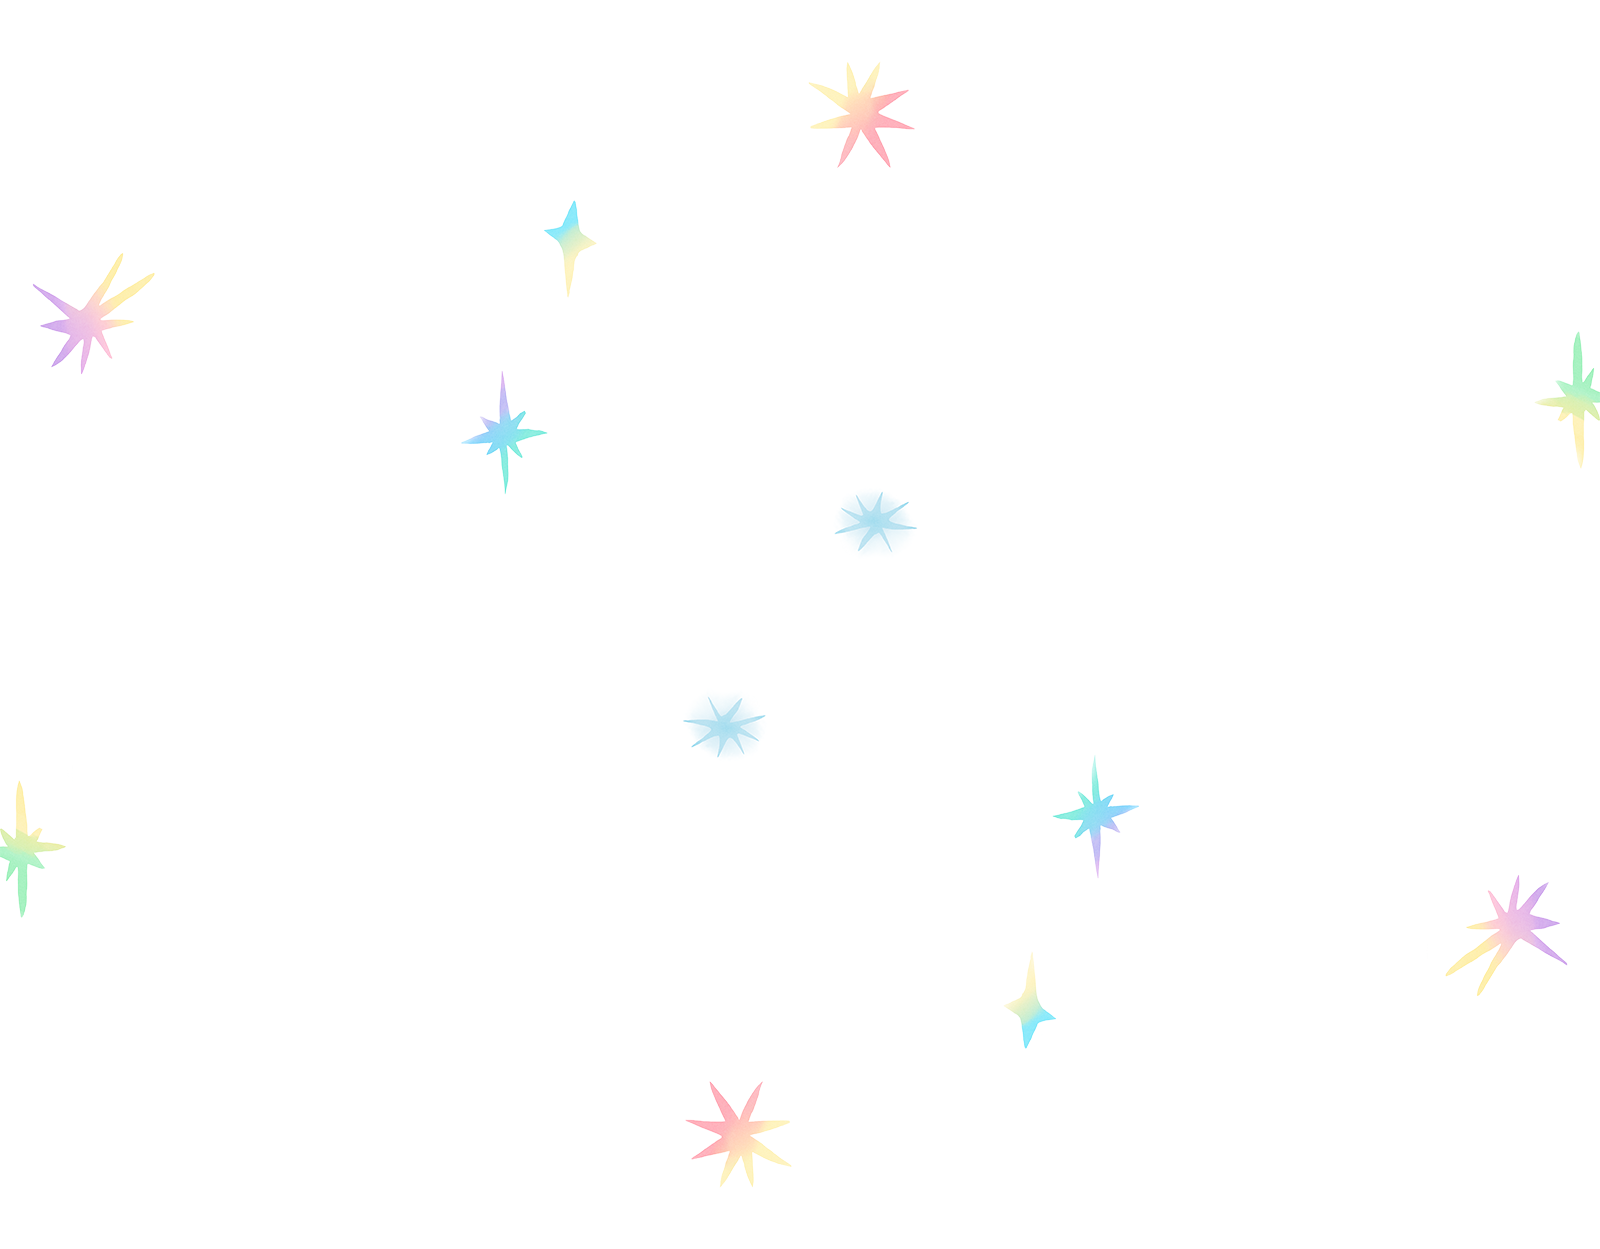
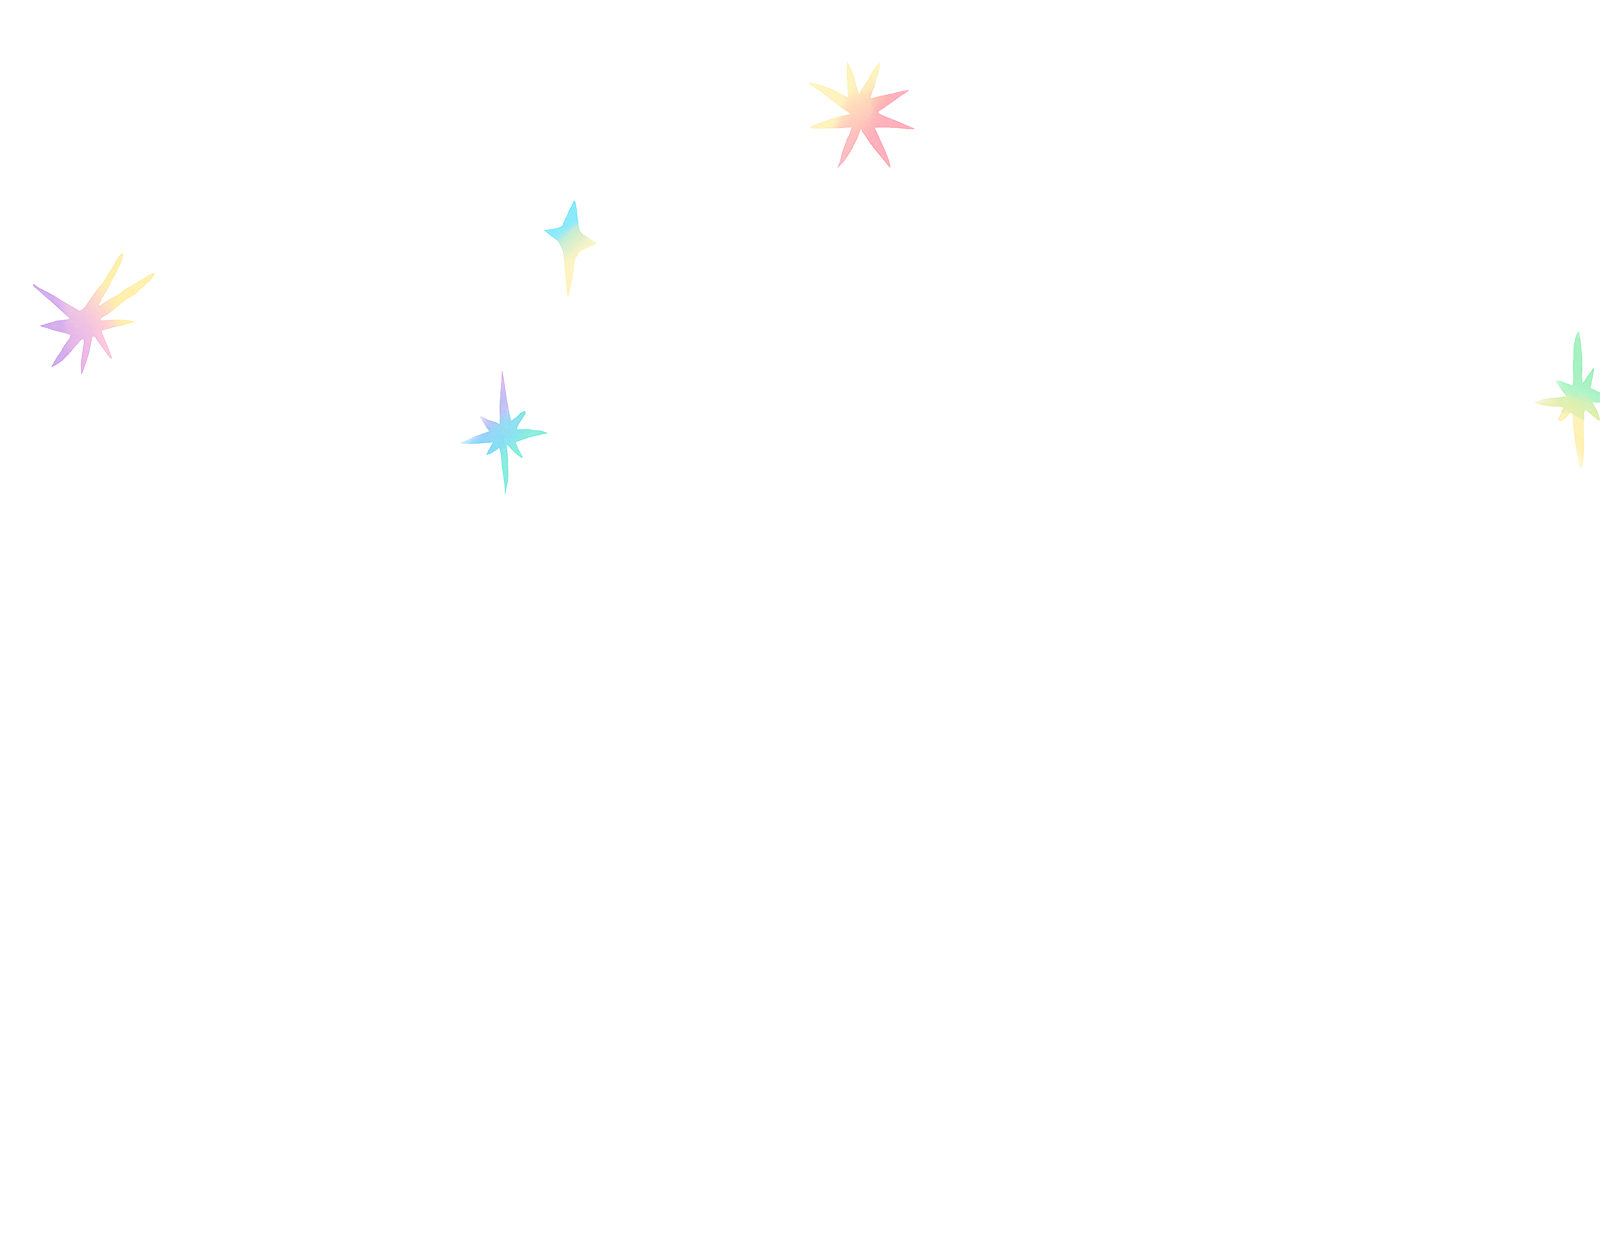
graphic positioning updates

diff --git a/css/stardust-style.css b/css/stardust-style.css
@@ -1,1 +1,1 @@
-html{font-family:'Open Sans',sans-serif;font-size:62.5%}body{background-color:#2c2456;background-image:url('../images/bg-from-book-dark-web.jpg');color:white}img{display:inline-block}h1,h2,h3,h4,h5,h6{font-family:'Fraunces',serif;font-weight:400;margin-bottom:12px}h1{font-size:3.6rem;text-align:center}h2{font-size:2.4rem}p{font-size:1.4rem;line-height:1.6;font-weight:400}.hr{display:flex;align-items:center;justify-content:center;padding:0 24px}main{display:grid;height:100vh;grid-template-columns:1fr;grid-template-rows:1fr;overflow:hidden}main.journey-begins .bg-sky img{-webkit-transform:scale(1.2) translateY(40px);transform:scale(1.2) translateY(40px)}main.journey-begins .stars-5-xs img{-webkit-transform:scale(1.2) translateY(80px);transform:scale(1.2) translateY(80px)}main.journey-begins .stars-4-sm img{-webkit-transform:scale(1.2) translateY(120px);transform:scale(1.2) translateY(120px)}main.journey-begins .stars-3-md img{-webkit-transform:scale(1.2) translateY(160px);transform:scale(1.2) translateY(160px)}main.journey-begins .stars-2-lg img{-webkit-transform:scale(1.2) translateY(200px);transform:scale(1.2) translateY(200px)}main.journey-begins .stars-1-xl img{-webkit-transform:scale(1.2) translateY(240px);transform:scale(1.2) translateY(240px)}main.journey-begins .stardust-title img{opacity:1}main.journey-begins .dragonfly-1 img{-webkit-transform:translateY(600px);transform:translateY(600px)}main.journey-begins .star-cliff img{-webkit-transform:translateY(840px);transform:translateY(840px)}main.journey-begins .butterfly img{-webkit-transform:translateY(1680px);transform:translateY(1680px)}main.journey-begins .dragonfly-2 img{-webkit-transform:translateY(1680px);transform:translateY(1680px)}.bg-sky,.begin-the-journey-container,.bg-stars,.stardust-title,.star-cliff,.butterfly,.dragonfly-1,.dragonfly-2,.flowers-left,.flowers-right{grid-column:1 / -1;grid-row:1 / -1;height:100vh}.bg-sky{z-index:-1}.bg-sky img,.bg-stars img{-o-object-fit:cover;object-fit:cover;-o-object-position:bottom;object-position:bottom;height:100vh;-webkit-transform:scale(1.2) translateY(0);transform:scale(1.2) translateY(0);-webkit-transform-origin:center bottom;transform-origin:center bottom;transition:-webkit-transform 2s cubic-bezier(.4, 0, .2, 1);transition:transform 2s cubic-bezier(.4, 0, .2, 1);transition:transform 2s cubic-bezier(.4, 0, .2, 1), -webkit-transform 2s cubic-bezier(.4, 0, .2, 1);width:100%}.stardust-title{display:flex;justify-content:center;align-items:start;z-index:1}.stardust-title img{-webkit-transform:translateY(100px);transform:translateY(100px);transition:opacity 1s cubic-bezier(.4, 0, .2, 1);transition-delay:1s;opacity:0;width:75%}.dragonfly-1{display:flex;justify-content:center;align-items:end;z-index:1}.dragonfly-1 img{transition:-webkit-transform 2s cubic-bezier(.4, 0, .2, 1);transition:transform 2s cubic-bezier(.4, 0, .2, 1);transition:transform 2s cubic-bezier(.4, 0, .2, 1), -webkit-transform 2s cubic-bezier(.4, 0, .2, 1);width:25%}.star-cliff{align-items:end;display:flex;z-index:1}.star-cliff img{transition:-webkit-transform 2s cubic-bezier(.4, 0, .2, 1);transition:transform 2s cubic-bezier(.4, 0, .2, 1);transition:transform 2s cubic-bezier(.4, 0, .2, 1), -webkit-transform 2s cubic-bezier(.4, 0, .2, 1);width:75%}.butterfly{justify-content:end;align-items:center;display:flex;z-index:1}.butterfly img{transition:-webkit-transform 2s cubic-bezier(.4, 0, .2, 1);transition:transform 2s cubic-bezier(.4, 0, .2, 1);transition:transform 2s cubic-bezier(.4, 0, .2, 1), -webkit-transform 2s cubic-bezier(.4, 0, .2, 1);-webkit-transform:translateY(36px);transform:translateY(36px)}.dragonfly-2{display:flex;align-items:center;z-index:1}.dragonfly-2 img{transition:-webkit-transform 2s cubic-bezier(.4, 0, .2, 1);transition:transform 2s cubic-bezier(.4, 0, .2, 1);transition:transform 2s cubic-bezier(.4, 0, .2, 1), -webkit-transform 2s cubic-bezier(.4, 0, .2, 1)}
+html{font-family:'Open Sans',sans-serif;font-size:62.5%}body{background-color:#2c2456;background-image:url('../images/bg-from-book-dark-web.jpg');color:white}img{display:inline-block}h1,h2,h3,h4,h5,h6{font-family:'Fraunces',serif;font-weight:400;margin-bottom:12px}h1{font-size:3.6rem;text-align:center}h2{font-size:2.4rem}p{font-size:1.4rem;line-height:1.6;font-weight:400}.hr{display:flex;align-items:center;justify-content:center;padding:0 24px}main{display:grid;height:100vh;grid-template-columns:1fr;grid-template-rows:1fr;overflow:hidden}main.journey-begins .bg-sky img{-webkit-transform:scale(1.2) translateY(4px);transform:scale(1.2) translateY(4px)}main.journey-begins .stars-5-xs img{-webkit-transform:scale(1.2) translateY(8px);transform:scale(1.2) translateY(8px)}main.journey-begins .stars-4-sm img{-webkit-transform:scale(1.2) translateY(12px);transform:scale(1.2) translateY(12px)}main.journey-begins .stars-3-md img{-webkit-transform:scale(1.2) translateY(16px);transform:scale(1.2) translateY(16px)}main.journey-begins .stars-2-lg img{-webkit-transform:scale(1.2) translateY(20px);transform:scale(1.2) translateY(20px)}main.journey-begins .stars-1-xl img{-webkit-transform:scale(1.2) translateY(24px);transform:scale(1.2) translateY(24px)}main.journey-begins .stardust-title img{opacity:1}main.journey-begins .dragonfly-1 img{-webkit-transform:translateY(24px);transform:translateY(24px)}main.journey-begins .star-cliff img{-webkit-transform:translateY(60px);transform:translateY(60px)}main.journey-begins .butterfly img{-webkit-transform:translateY(258px);transform:translateY(258px)}main.journey-begins .dragonfly-2 img{-webkit-transform:translateY(132px);transform:translateY(132px)}.bg-sky,.begin-the-journey-container,.bg-stars,.stardust-title,.star-cliff,.butterfly,.dragonfly-1,.dragonfly-2,.flowers-left,.flowers-right{grid-column:1 / -1;grid-row:1 / -1;height:100vh}.bg-sky{z-index:-1}.bg-sky img{height:100vh;-o-object-fit:cover;object-fit:cover;-o-object-position:bottom;object-position:bottom;-webkit-transform:scale(1.2) translateY(0);transform:scale(1.2) translateY(0);-webkit-transform-origin:center;transform-origin:center;transition:-webkit-transform 2s cubic-bezier(.4, 0, .2, 1);transition:transform 2s cubic-bezier(.4, 0, .2, 1);transition:transform 2s cubic-bezier(.4, 0, .2, 1), -webkit-transform 2s cubic-bezier(.4, 0, .2, 1);width:100%}.bg-stars{-webkit-transform:translateY(-75px);transform:translateY(-75px)}.bg-stars img{height:100vh;-o-object-fit:cover;object-fit:cover;-o-object-position:top;object-position:top;-webkit-transform:scale(1.2) translateY(0);transform:scale(1.2) translateY(0);-webkit-transform-origin:center;transform-origin:center;transition:-webkit-transform 2s cubic-bezier(.4, 0, .2, 1);transition:transform 2s cubic-bezier(.4, 0, .2, 1);transition:transform 2s cubic-bezier(.4, 0, .2, 1), -webkit-transform 2s cubic-bezier(.4, 0, .2, 1);width:100%}.stardust-title{display:flex;justify-content:center;align-items:center;z-index:1}.stardust-title img{transition:opacity 1s cubic-bezier(.4, 0, .2, 1);transition-delay:1s;-webkit-transform:translateY(-10vw);transform:translateY(-10vw);opacity:0;width:min(1024px, 100%)}.dragonfly-1{display:flex;justify-content:center;align-items:end;z-index:1}.dragonfly-1 img{transition:-webkit-transform 2s cubic-bezier(.4, 0, .2, 1);transition:transform 2s cubic-bezier(.4, 0, .2, 1);transition:transform 2s cubic-bezier(.4, 0, .2, 1), -webkit-transform 2s cubic-bezier(.4, 0, .2, 1);width:min(192px, 25%)}.star-cliff{align-items:end;display:flex;z-index:1}.star-cliff img{transition:-webkit-transform 2s cubic-bezier(.4, 0, .2, 1);transition:transform 2s cubic-bezier(.4, 0, .2, 1);transition:transform 2s cubic-bezier(.4, 0, .2, 1), -webkit-transform 2s cubic-bezier(.4, 0, .2, 1);width:min(720px, 100%)}.butterfly{justify-content:end;align-items:center;display:flex;z-index:1}.butterfly img{transition:-webkit-transform 2s cubic-bezier(.4, 0, .2, 1);transition:transform 2s cubic-bezier(.4, 0, .2, 1);transition:transform 2s cubic-bezier(.4, 0, .2, 1), -webkit-transform 2s cubic-bezier(.4, 0, .2, 1);-webkit-transform:translateY(172px);transform:translateY(172px);width:min(248px, 33%)}.dragonfly-2{display:flex;align-items:center;-webkit-transform:translateY(96px);transform:translateY(96px);z-index:1}.dragonfly-2 img{transition:-webkit-transform 2s cubic-bezier(.4, 0, .2, 1);transition:transform 2s cubic-bezier(.4, 0, .2, 1);transition:transform 2s cubic-bezier(.4, 0, .2, 1), -webkit-transform 2s cubic-bezier(.4, 0, .2, 1);width:min(192px, 33%)}

diff --git a/css/stardust-style.less b/css/stardust-style.less
@@ -1,6 +1,8 @@
 // TODO: Switch images to fixed values instead of %
 
-@parallax: 10;
+@parallax: 1;
+@pre-scale: 1.2;
+@post-scale: @pre-scale * 1;
 
 html {
     font-family: 'Open Sans', sans-serif;
@@ -59,27 +61,27 @@ main {
 
     &.journey-begins {
         .bg-sky img {
-            transform: scale(1.2) translateY(4px * @parallax);
+            transform: scale(@post-scale) translateY(4px * @parallax);
         }
 
         .stars-5-xs img {
-            transform: scale(1.2) translateY(8px * @parallax);
+            transform: scale(@post-scale) translateY(8px * @parallax);
         }
 
         .stars-4-sm img {
-            transform: scale(1.2) translateY(12px * @parallax);
+            transform: scale(@post-scale) translateY(12px * @parallax);
         }
 
         .stars-3-md img {
-            transform: scale(1.2) translateY(16px * @parallax);
+            transform: scale(@post-scale) translateY(16px * @parallax);
         }
 
         .stars-2-lg img {
-            transform: scale(1.2) translateY(20px * @parallax);
+            transform: scale(@post-scale) translateY(20px * @parallax);
         }
 
         .stars-1-xl img {
-            transform: scale(1.2) translateY(24px * @parallax);
+            transform: scale(@post-scale) translateY(24px * @parallax);
         }
 
         .stardust-title img {
@@ -87,19 +89,19 @@ main {
         }
 
         .dragonfly-1 img {
-            transform: translateY(60px * @parallax);
+            transform: translateY(24px * @parallax);
         }
 
         .star-cliff img {
-            transform: translateY(84px * @parallax);
+            transform: translateY(60px * @parallax);
         }
 
         .butterfly img {
-            transform: translateY(168px * @parallax);
+            transform: translateY((172px * 1.5) * @parallax);
         }
 
         .dragonfly-2 img {
-            transform: translateY(168px * @parallax);
+            transform: translateY(132px * @parallax);
         }
 
         // .flowers-left img {
@@ -129,16 +131,26 @@ main {
 
 .bg-sky {
     z-index: -1;
-}
 
-.bg-sky,
-.bg-stars {
     img {
+        height: 100vh;
         object-fit: cover;
         object-position: bottom;
+        transform: scale(@pre-scale) translateY(0);
+        transform-origin: center;
+        transition: transform 2s cubic-bezier(0.4, 0, 0.2, 1);
+        width: 100%;
+    }
+}
+
+.bg-stars {
+    transform: translateY(-75px);
+    img {
         height: 100vh;
-        transform: scale(1.2) translateY(0);
-        transform-origin: center bottom;
+        object-fit: cover;
+        object-position: top;
+        transform: scale(@pre-scale) translateY(0);
+        transform-origin: center;
         transition: transform 2s cubic-bezier(0.4, 0, 0.2, 1);
         width: 100%;
     }
@@ -147,15 +159,15 @@ main {
 .stardust-title {
     display: flex;
     justify-content: center;
-    align-items: start;
+    align-items: center;
     z-index: 1;
 
     img {
-        transform: translateY(100px);
         transition: opacity 1s cubic-bezier(0.4, 0, 0.2, 1);
         transition-delay: 1s;
+        transform: translateY(-10vw);
         opacity: 0;
-        width: 75%;
+        width: min(1024px, 100%);
     }
 }
 
@@ -167,7 +179,7 @@ main {
 
     img {
         transition: transform 2s cubic-bezier(0.4, 0, 0.2, 1);
-        width: 25%;
+        width: min(192px, 25%);
     }
 }
 
@@ -178,7 +190,7 @@ main {
 
     img {
         transition: transform 2s cubic-bezier(0.4, 0, 0.2, 1);
-        width: 75%;
+        width: min(720px, 100%);
     }
 }
 
@@ -190,17 +202,20 @@ main {
 
     img {
         transition: transform 2s cubic-bezier(0.4, 0, 0.2, 1);
-        transform: translateY(36px);
+        transform: translateY(172px);
+        width: min(248px, 33%);
     }
 }
 
 .dragonfly-2 {
     display: flex;
     align-items: center;
+    transform: translateY(96px);
     z-index: 1;
 
     img {
         transition: transform 2s cubic-bezier(0.4, 0, 0.2, 1);
+        width: min(192px, 33%);
     }
 }
 
